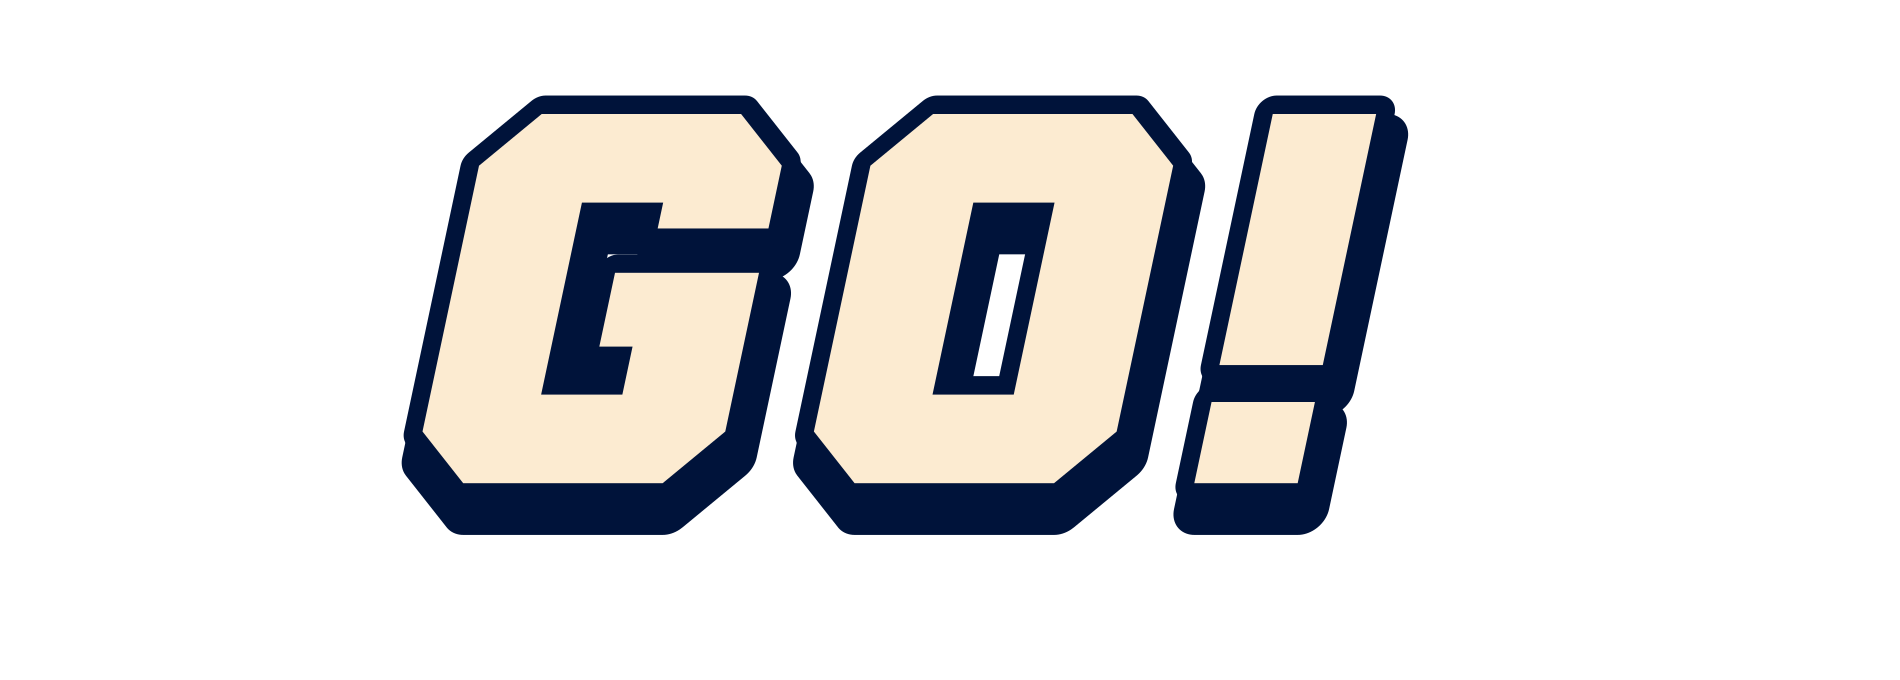
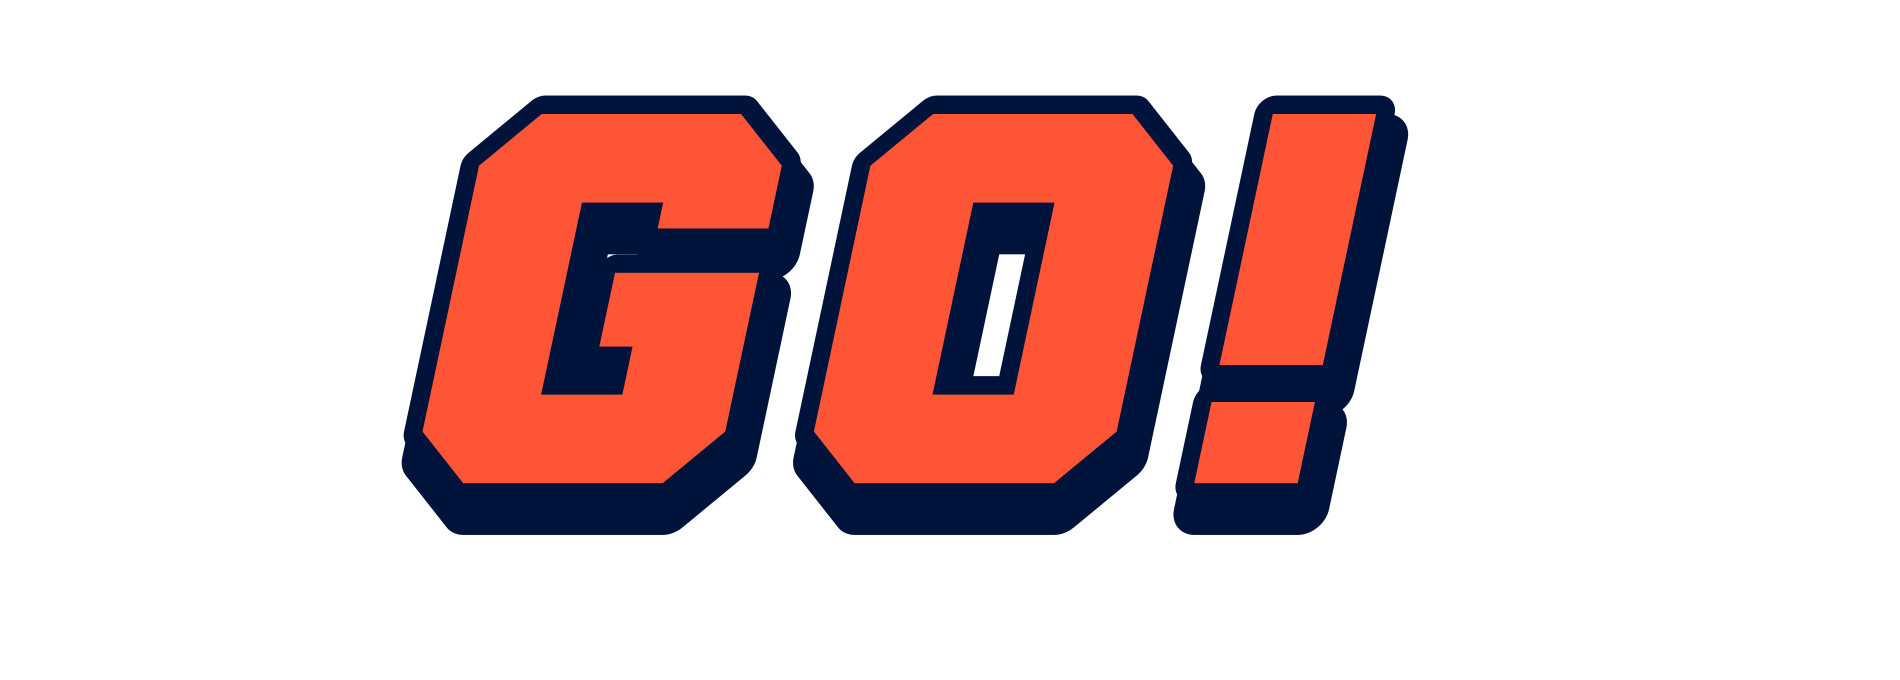
Publish refined tutorial artwork, animated green blocks and coordinated result colors

Changed region(s): [[0.2174, 0.1544, 0.7453, 0.7103], [0.6211, 0.5868, 0.7142, 0.7103]]

diff --git a/style.css b/style.css
@@ -12,7 +12,7 @@
 .hud-dot[data-result="unused"]{opacity:.25}
 .tutorial-skip{position:absolute;z-index:6;left:4%;bottom:5%;padding:.65em 1.15em;border:2px solid var(--ink);border-radius:999px;background:var(--cream);color:var(--ink);font:400 clamp(10px,1cqw,15px) var(--mono)}
 .modal-layer{position:absolute;inset:0;z-index:10;display:grid;place-items:center;background:#00133a88}.art-panel{position:relative;width:43%;aspect-ratio:670/660;padding:4% 4.7% 4%;display:flex;flex-direction:column;justify-content:center;gap:6%;background:url('assets/ui/elements/modals/panel-base.svg') center/100% 100% no-repeat}.panel-title{width:91%;align-self:center;margin:0 0 2%;max-height:18%;object-fit:contain}.art-panel>.image-button{width:100%;flex-shrink:0}.pause-panel{display:block;padding:0;transform:scale(.666667);transform-origin:center}.pause-panel .panel-title{position:absolute;left:14%;top:8%;width:70%;height:16%;max-height:none;margin:0}.pause-panel>.image-button{position:absolute;left:13%;width:74%}.pause-panel #resume{top:30%}.pause-panel #retry{top:50%}.pause-panel #pauseHome{top:70%}.small-link{align-self:center;border:0;background:transparent;font:400 clamp(8px,1cqw,14px) var(--mono);color:var(--ink);text-decoration:underline;padding:2%}.pause-panel .small-link{position:absolute;left:30%;top:88%;bottom:auto;width:40%;padding:0;font-size:clamp(11px,1.2cqw,18px)}.settings-layer{z-index:12}.settings-panel{width:43%;min-height:0;gap:6%;padding:3.8% 4.7%;transform:scale(.666667);transform-origin:center}.settings-panel .panel-title{margin:0}.volume-row{display:flex;align-items:center;gap:5%;height:10%;flex-shrink:0}.volume-row>img{width:31%;max-height:100%;object-fit:contain}.volume-row input{width:64%}input[type=range]{appearance:none;-webkit-appearance:none;border:clamp(2px,.4cqw,6px) solid var(--ink);height:clamp(10px,1.8cqw,28px);border-radius:999px;background:linear-gradient(to right,var(--coral) var(--fill,100%),var(--cream) var(--fill,100%));padding:0;margin:0;cursor:pointer;min-width:0}input[type=range]::-webkit-slider-thumb{appearance:none;width:clamp(18px,3.4cqw,48px);height:clamp(18px,3.4cqw,48px);border:clamp(2px,.4cqw,6px) solid var(--ink);border-radius:50%;background:var(--cream)}input[type=range]::-moz-range-thumb{width:clamp(14px,2.7cqw,40px);height:clamp(14px,2.7cqw,40px);border:4px solid var(--ink);border-radius:50%;background:var(--cream)}.offset-row{display:grid;grid-template-columns:1fr auto;gap:.8cqw;font:400 clamp(7px,1cqw,14px) var(--mono)}.offset-row input{grid-column:1/-1;width:100%;height:1.1cqw;min-height:8px}.offset-row input::-webkit-slider-thumb{width:2cqw;height:2cqw;min-width:14px;min-height:14px;border-width:3px}.motion-row{font:400 clamp(7px,1cqw,14px) var(--mono);display:flex;align-items:center;gap:8px}.motion-row input{accent-color:var(--coral);margin:0}.quit-layer{z-index:15}.quit-panel{gap:9%;width:49%;padding:4.5% 5.5%}.quit-message{width:100%;margin-bottom:2%}
-.results-screen{z-index:8;background:radial-gradient(ellipse at 70% 38%,#46d3c2 0%,#28c2b3 100%)}.results-screen:before{content:'';position:absolute;left:-46%;top:14%;width:92%;aspect-ratio:1;border-radius:50%;background:linear-gradient(135deg,#b8fff0,#78e9d7)}.result-logo{position:absolute;left:3%;top:1.5%;width:18%}.result-dish{display:none}.result-content{position:absolute;inset:0}.result-title{position:absolute;left:51.5%;top:3.8%;width:45.5%;height:26.5%;object-fit:contain}.accuracy{position:absolute;left:57.4%;top:29.2%;width:32.5%;height:19%;object-fit:contain}.result-tag{position:absolute;left:63.5%;top:48.5%;width:20%;height:7.5%;object-fit:contain}.result-celebration{position:absolute;top:32.3%;width:6%;height:16.5%;object-fit:contain}.celebration-left{left:51.5%}.celebration-right{left:89.8%}.result-stats{position:absolute;left:49%;top:94%;width:48%;font:400 clamp(5px,.62cqw,10px) var(--mono);text-align:center;line-height:1.25;white-space:pre-line;margin:0}.result-content button{position:absolute;left:55.7%;width:34.5%;height:18.3%;display:grid;place-items:center}.result-content button img{width:100%;height:100%;object-fit:contain}#resultRetry{top:56.4%}#resultHome{top:75.5%}
+.results-screen{z-index:8;background:radial-gradient(ellipse at 70% 38%,#75d3a5 0%,#60c597 100%)}.results-screen:before{content:'';position:absolute;left:-46%;top:14%;width:92%;aspect-ratio:1;border-radius:50%;background:linear-gradient(135deg,#a9e8c6,#87dcb0)}.result-logo{position:absolute;left:3%;top:1.5%;width:18%}.result-dish{display:none}.result-content{position:absolute;inset:0}.result-title{position:absolute;left:51.5%;top:3.8%;width:45.5%;height:26.5%;object-fit:contain}.accuracy{position:absolute;left:57.4%;top:29.2%;width:32.5%;height:19%;object-fit:contain}.result-tag{position:absolute;left:63.5%;top:48.5%;width:20%;height:7.5%;object-fit:contain}.result-celebration{position:absolute;top:32.3%;width:6%;height:16.5%;object-fit:contain}.celebration-left{left:51.5%}.celebration-right{left:89.8%}.result-stats{position:absolute;left:49%;top:94%;width:48%;font:400 clamp(5px,.62cqw,10px) var(--mono);text-align:center;line-height:1.25;white-space:pre-line;margin:0}.result-content button{position:absolute;left:55.7%;width:34.5%;height:18.3%;display:grid;place-items:center}.result-content button img{width:100%;height:100%;object-fit:contain}#resultRetry{top:56.4%}#resultHome{top:75.5%}
 
 footer{display:flex;justify-content:space-between;align-items:center;gap:16px;padding:14px 0;font-size:11px;line-height:1.6}.utility{display:flex;gap:12px}.utility button{border:0;background:transparent;color:var(--ink);font:inherit;padding:6px 0;white-space:nowrap}.game:fullscreen{width:min(100vw,216.666667vh);height:auto;max-height:100vh;aspect-ratio:13/6;margin:auto;border-radius:0;background:var(--cream)}.game::backdrop{background:var(--cream)}@media(max-width:600px){main{padding:8px}.game{border-radius:8px}footer{font-size:9px;gap:8px;flex-wrap:wrap}.utility{margin-left:auto}.art-panel{width:55%;padding:5% 6%}.settings-panel{width:55%;gap:5%;padding:4.5% 6%}.quit-panel{width:62%;padding:6% 7%;gap:8%}.beat-hud{bottom:8%}.pause-panel{padding:0}}@media(prefers-reduced-motion:reduce){*{transition:none!important}}
 
@@ -340,3 +340,17 @@ svg.studio-waveform {
 .pause-panel{width:28.666667%;transform:none}
 .pause-panel .small-link{font-size:clamp(7.333333px,.8cqw,12px)}
 @media(max-width:600px){.pause-panel{width:36.666667%}}
+
+/* Gentle chapter-color motion behind tutorial cards, turn cues and count-in. */
+.tutorial-color-blocks{position:absolute;inset:0;overflow:hidden;pointer-events:none}
+.tutorial-color-blocks i{position:absolute;inset:-4%;display:block;background-position:center;background-size:100% 100%;background-repeat:no-repeat;animation-play-state:paused!important}
+#tutorial:not([hidden]) .tutorial-color-blocks i{animation-play-state:running!important}
+.tutorial-color-blocks .block-left{background-image:url('assets/ui/elements/tutorial/rice-rice-baby/block-left.svg');animation:rice-block-left 9s ease-in-out infinite alternate}
+.tutorial-color-blocks .block-right{background-image:url('assets/ui/elements/tutorial/rice-rice-baby/block-right.svg');animation:rice-block-right 11s ease-in-out infinite alternate}
+.tutorial-color-blocks .block-bottom{background-image:url('assets/ui/elements/tutorial/rice-rice-baby/block-bottom.svg');animation:rice-block-corner 8s ease-in-out infinite alternate}
+.tutorial-color-blocks .block-top{background-image:url('assets/ui/elements/tutorial/rice-rice-baby/block-top.svg');animation:rice-block-corner 10s ease-in-out -3s infinite alternate-reverse}
+@keyframes rice-block-left{from{transform:translate(-1.5%,-1%) rotate(-1deg);opacity:.85}to{transform:translate(2.5%,1%) rotate(1deg);opacity:1}}
+@keyframes rice-block-right{from{transform:translate(1.5%,0) rotate(1deg);opacity:.8}to{transform:translate(-2.5%,-1%) rotate(-1deg);opacity:1}}
+@keyframes rice-block-corner{from{transform:translate(-1%,1%);opacity:.6}to{transform:translate(2%,-2%);opacity:1}}
+@media(prefers-reduced-motion:reduce){#tutorial .tutorial-color-blocks i{animation:none!important}}
+.game:has(#motion:checked) #tutorial .tutorial-color-blocks i{animation:none!important}

diff --git a/index.html b/index.html
@@ -32,6 +32,7 @@
 </section>
 <section id="emptyLevel" class="screen empty-level-screen" aria-label="Empty level" hidden><button id="emptyBack" class="image-button empty-back" aria-label="Back to level selection"><img src="assets/ui/elements/buttons/unified/back.svg" alt="BACK"></button></section>
 <section id="tutorial" class="screen tutorial-screen" aria-label="Rice Rice Baby tutorial" hidden>
+<div class="tutorial-color-blocks" aria-hidden="true"><i class="block-left"></i><i class="block-right"></i><i class="block-bottom"></i><i class="block-top"></i></div>
 <img id="tutorialCard" class="lesson-card" src="assets/ui/elements/tutorial/rice-rice-baby/intro-card.svg" alt="">
 <img id="tutorialTurn" class="lesson-turn" src="assets/ui/elements/tutorial/rice-rice-baby/now-its-your-turn.svg" alt="Now it’s your turn!" hidden>
 <p id="tutorialRetry" class="lesson-retry" hidden>TRY AGAIN — FOLLOW THE SOUND CUES</p>

diff --git a/game.js b/game.js
@@ -348,13 +348,12 @@ function draw(t) {
   // Cover the entire display with the original table art, without moving gameplay objects.
   c.setTransform(1,0,0,1,0,0);
   c.clearRect(0,0,canvas.width,canvas.height);
-  if(lessonMode==='level')c.drawImage(assets.table,0,0,canvas.width,canvas.height);
+  c.drawImage(assets.table,0,0,canvas.width,canvas.height);
   c.setTransform(scale,0,0,scale,(canvas.width-1200*scale)/2,0);
   c.save();
   c.translate(0, 61);
   c.scale(1200 / 1950, 1200 / 1950);
   c.beginPath(); c.rect(0, 0, 1950, 900); c.clip();
-  if(lessonMode!=='level')image('table', 0, 0, 1950, 900);
   const playing = ['playing', 'paused', 'result'].includes(state);
   const beat = playing ? t / BEAT : -10;
   const group = servings.find(g => beat >= g.beat && beat < g.beat + g.length);

diff --git a/tutorial-flow.js b/tutorial-flow.js
@@ -70,7 +70,7 @@ function complete(){
 }
 function countIn(){
  panel('count-in');soundtrack.stop(0);count.hidden=false;
- const images=['assets/ui/elements/countdown/3.svg','assets/ui/elements/countdown/2.svg','assets/ui/elements/countdown/1.svg',base+'countdown-go.svg'];
+ const images=[base+'countdown-3.svg',base+'countdown-2.svg',base+'countdown-1.svg',base+'countdown-go.svg'];
  let shown=-1;
  timed(3200,elapsed=>{
   const index=Math.min(3,Math.floor(elapsed/800));if(index===shown)return;shown=index;

diff --git a/assets/ui/elements/tutorial/rice-rice-baby/README.md b/assets/ui/elements/tutorial/rice-rice-baby/README.md
@@ -1,17 +1,19 @@
 # Rice Rice Baby tutorial artwork
 
-The approved English tutorial uses a solid `#87DCB0` background, `#FCEBD1` panels, `#00133A` outlines and angular title/key lettering. Panel width is 1205 units, reduced from 1446 by one sixth; height and rounded corners are preserved. Narrow `I` glyphs use their own advance width.
+The approved English tutorial uses a `#87DCB0` background with gently moving related green blocks, `#FCEBD1` panels, `#00133A` outlines and angular title/key lettering. Panel width is 1205 units, reduced from 1446 by one sixth; height and rounded corners are preserved. Narrow `I` glyphs use their own advance width.
 
 - `intro-card`: brief introduction, shape/send keys and left/right touch mapping.
 - `lesson-1-card` through `lesson-4-card`: regular rice, triple rice, bouncing rice and sponge. Key sequences are visual, with a crossed-out shape key for the sponge.
 - `now-its-your-turn`: transition from demonstration to interactive practice.
 - `tutorial-complete-card`: all four patterns complete.
 - `continue-button`, `watch-demo-button`, `key-a`, `key-d`, `textbox-empty`: reusable transparent components.
-- `countdown-1/2/3` and `countdown-go`: transparent count-in exports. The 3/2/1 vectors remain the existing shared countdown assets.
+- `countdown-1/2/3` and `countdown-go`: transparent count-in exports. The 3/2/1 companions wrap the shared countdown paths; only their number bodies are matched to GO height, excluding the small decorative accents. GO is coral and the turn cue is cream with navy outline/shadow.
 - `background-green`: the solid background, exported separately.
 
 PNGs are exported at twice the design size. Transparent margins surround the components; only the background is opaque. Runtime uses the corresponding SVGs for sharp rendering. Body text is outlined from the bundled IBM Plex Mono font so browsers do not substitute another typeface.
 
-Flow: introduction → explanation → demonstration → “Now it’s your turn!” → practice. Repeat for four patterns. Failed practice replays the same demonstration, then shows “Now it’s your turn!” before another attempt. Continue after completion to a plain green 3 → 2 → 1 → GO! screen, with 800 ms per image, then start the unchanged formal chart and soundtrack. No count-in appears inside the tutorial. Skip remains available.
+Flow: introduction → explanation → demonstration → “Now it’s your turn!” → practice. Repeat for four patterns. Failed practice replays the same demonstration, then shows “Now it’s your turn!” before another attempt. Continue after completion to a green block-background 3 → 2 → 1 → GO! screen, with 800 ms per image, then start the unchanged formal chart and soundtrack. No count-in appears inside the tutorial. Skip remains available.
 
 To regenerate, install development dependencies `sharp` and Python `fonttools`, then run `node scripts/build-rice-tutorial.cjs` from the repository root. These dependencies are not required by the game in the browser.
+
+`background-blocks` is the static composite; `block-left/right/bottom/top` are separate transparent motion layers. Motion is slow and decorative, and stops for Reduced Motion. The result screen uses the related deeper greens `#75D3A5` and `#60C597`; `assets/ui/elements/result/background-rice-green` is the matching export. Tutorial and formal gameplay both fill the canvas with the original table artwork.
